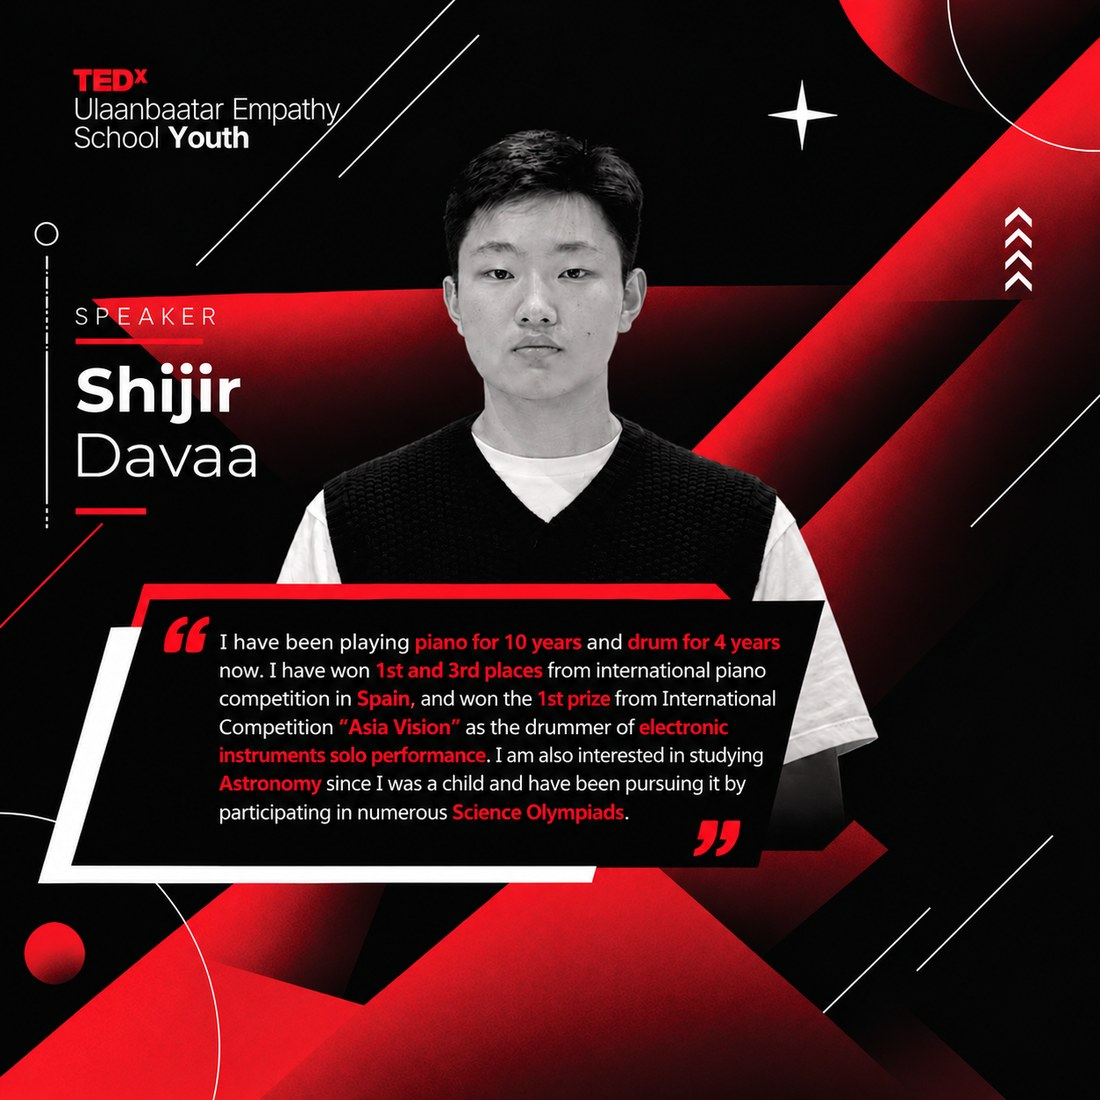
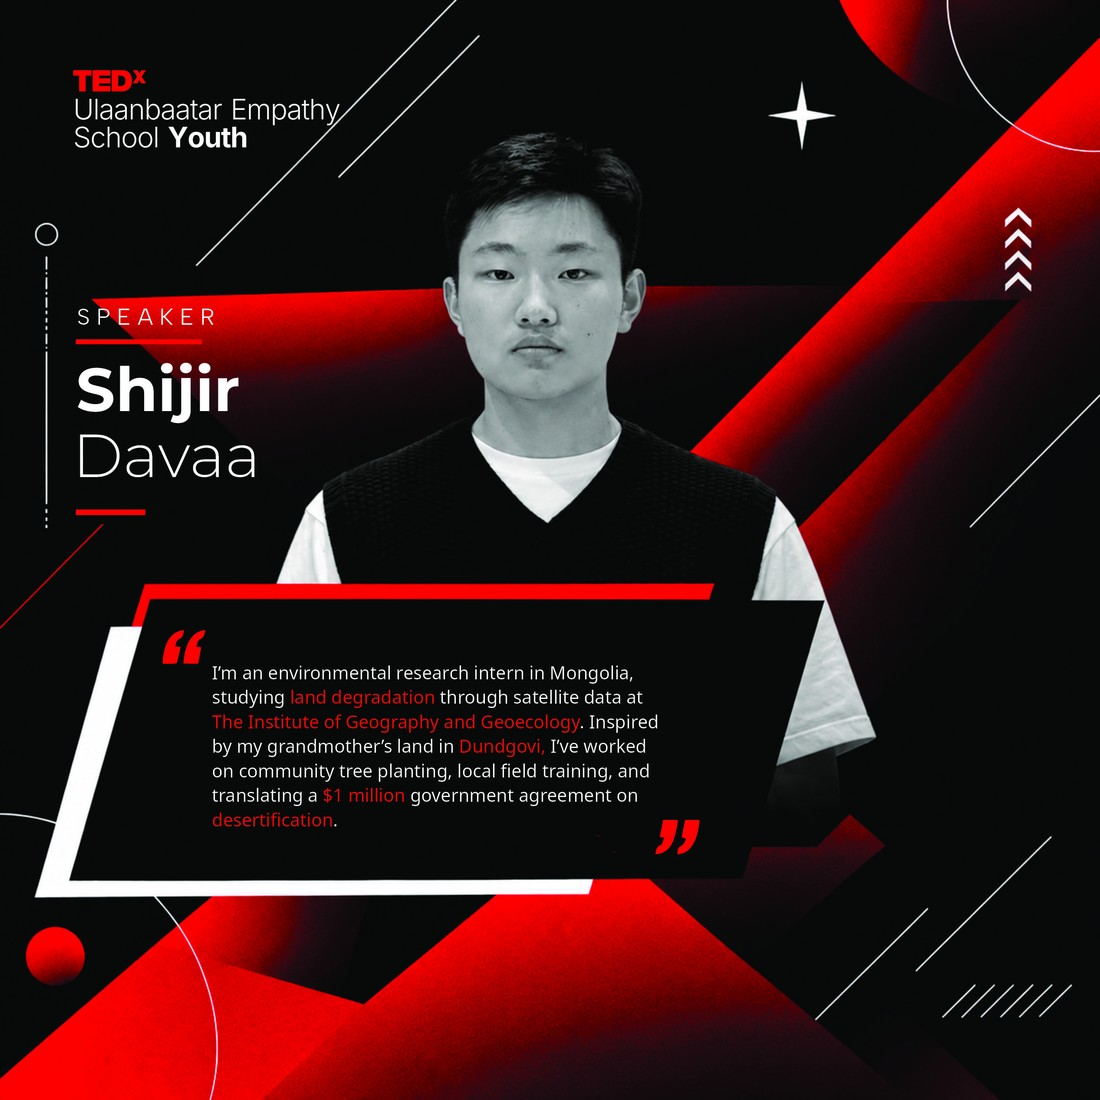
Update Shijir Davaa's poster and bio
New poster (full, uncropped) and bio: environmental research intern at
the Institute of Geography and Geoecology studying land degradation via
satellite data, with community tree planting, field training and
translating a $1M desertification agreement.

Claude-Session: https://claude.ai/code/session_01Qx4rc4ffXFwXsaGP5T1Eab

diff --git a/artifacts/tedx-ub-empathy/src/App.tsx b/artifacts/tedx-ub-empathy/src/App.tsx
@@ -255,8 +255,8 @@ const speakers: SpeakerInfo[] = [
     name: 'Shijir Davaa',
     photo: speakerPhoto('shijir-davaa.jpg'),
     desc: b(
-      'Pianist for 10 years and drummer for 4, with 1st and 3rd place finishes at an international piano competition in Spain and 1st prize as drummer of electronic instruments at the "Asia Vision" international competition. A lifelong astronomy enthusiast who has pursued the subject through numerous science olympiads.',
-      'Испанид болсон олон улсын төгөлдөр хуурын тэмцээнд 1, 3-р байр эзэлж, "Asia Vision" олон улсын тэмцээнд цахим хөгжмийн хэрэгслийн бөмбөрчөөр 1-р байр эзэлсэн. 10 жил төгөлдөр хуур, 4 жил бөмбөр тоглосон. Багаасаа одон орон судлалд дуртай бөгөөд олон шинжлэх ухааны олимпиадад оролцсоор ирсэн.',
+      "Environmental research intern at the Institute of Geography and Geoecology in Mongolia, studying land degradation through satellite data. Inspired by his grandmother's land in Dundgovi, he has worked on community tree planting, local field training, and translating a $1 million government agreement on desertification.",
+      'Монгол Улсын Газарзүй, геоэкологийн хүрээлэнгийн байгаль орчны судалгааны дадлагажигч бөгөөд хиймэл дагуулын мэдээллээр газрын доройтлыг судалдаг. Дундговь дахь эмээгийнхээ нутгаас санаа авч олон нийтийн мод тарих ажил, орон нутгийн хээрийн сургалтад оролцож, цөлжилтийн эсрэг 1 сая ам.долларын засгийн газрын гэрээг орчуулахад хувь нэмрээ оруулсан.',
     ),
   },
   {
